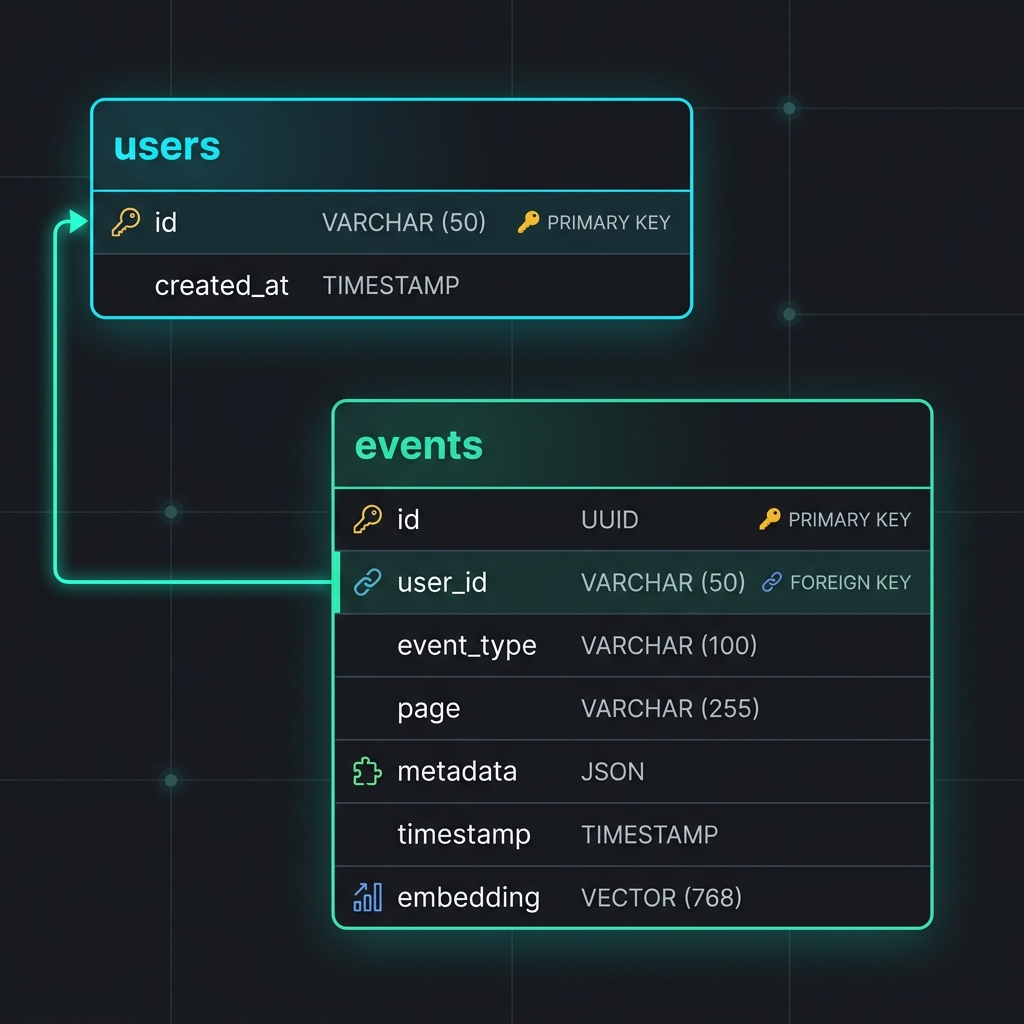
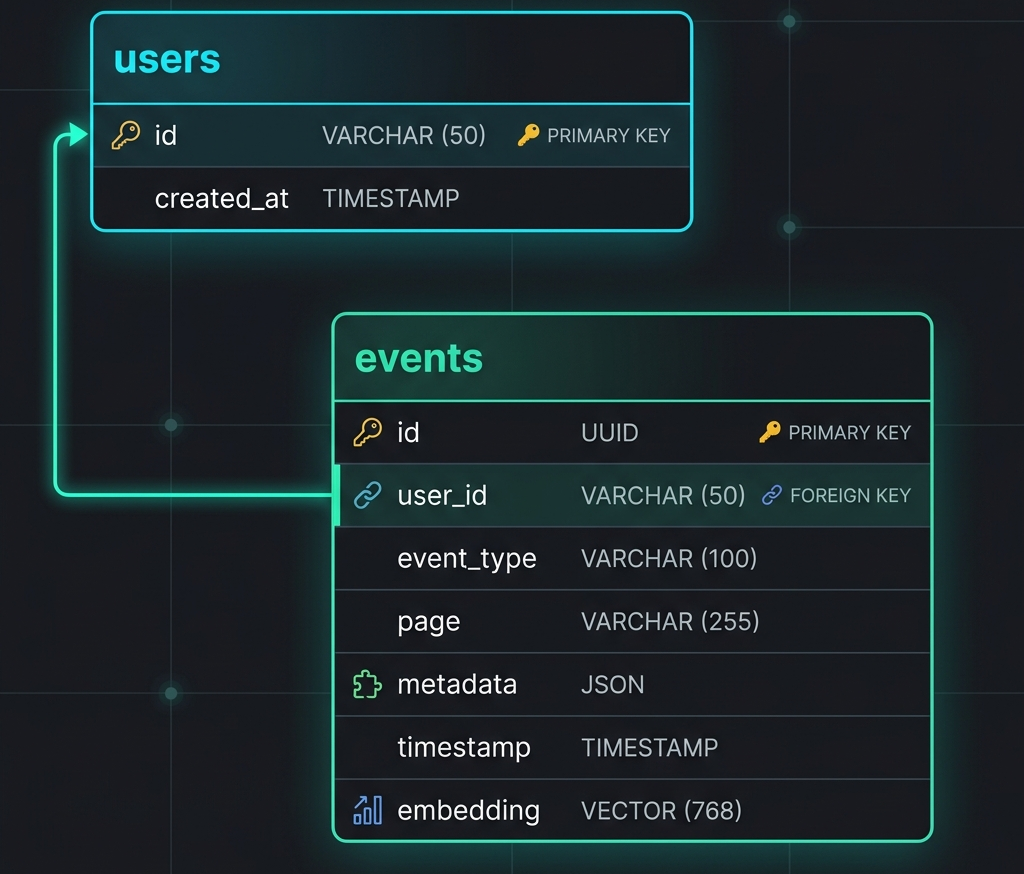
docs: integrate live neon database tracking rows into presentation

diff --git a/README.md b/README.md
@@ -39,6 +39,12 @@ This system tracks user interaction event logs, processes them into 768-dimensio
 
 ![Swagger UI](docs/swagger_docs.png)
 
+### 🗄️ Relational & Vector Database Layer (Neon PostgreSQL)
+Below is a live view of the underlying production data warehouse, illustrating standard metadata strings and structured JSON payloads stored adjacent to the high-dimensional `pgvector` coordinate blocks:
+
+![Neon PostgreSQL Live Data View](docs/database_tables_live.png)
+
+
 ### 🔹 Database Schema
 
 ![Database Schema](docs/database_tables.png)